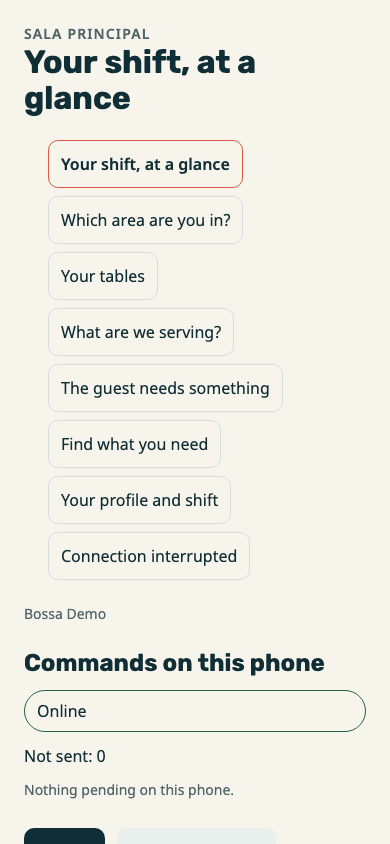
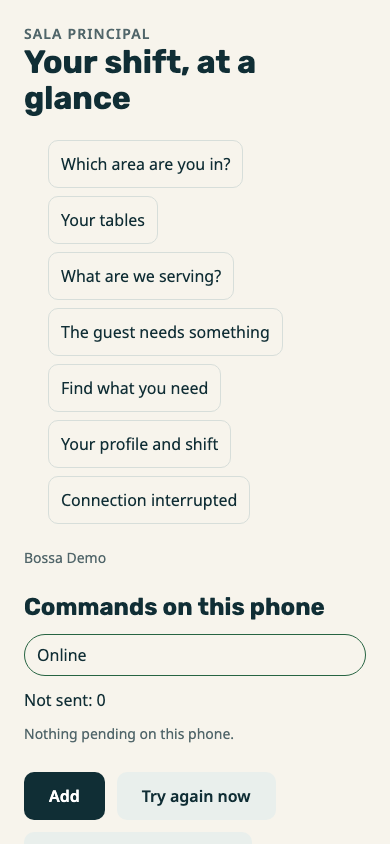
A queixa numero um: o titulo do Staff aparecia duas vezes, e agora aparece uma
Eu tinha corrigido o rotulo ACESSIVEL da barra e deixado o duplicado VISIVEL.
Corrigir o `aria-label` e mostrar o mesmo texto duas vezes no ecra e arrumar o
que nao se ve e deixar o que se ve.

## Escolhi a saida que resolve a classe

Das duas, a barra passa a excluir a seccao cuja rota e a actual. **Uma entrada
que navega para onde ja se esta nao e navegacao** — e a tela principal seguinte
que alguem acrescentar nao repete o defeito, porque a barra deixa de poder
mostrar aquilo onde ja se esta. Dar um rotulo curto proprio ao turno resolvia
esta instancia e deixava a proxima por resolver.

O `aria-current` sai com ela, e e coerente: existia para dizer «a pagina e
esta», e quem o diz e o `h1`.

## Medido no resultado, em tres rotas

  turno   titulo «Tu turno, a la vista»   1 vez, no H1   7 pastilhas
  zonas   titulo «¿En qué zona estás?»    1 vez, no H1   7 pastilhas
  mesas   titulo «Tus mesas»              1 vez, no H1   7 pastilhas

Em cada uma, a pastilha da seccao actual esta ausente e as outras sete la estao.
E olhei para a captura do M04: o titulo aparece uma vez e a primeira pastilha
passou a ser «¿En qué zona estás?».

## E parti um plante meu, na tarefa (5)

`provar-staff-no-navegador.sh` reprovou com «caiu a medicao de toque: ficou VERDE
com o defeito plantado». A ancora do plante era o BLOCO INTEIRO da regra
`.bo-staff .bo-lista a`, e eu tinha-lhe acrescentado `color` e `text-decoration`
— faltavam-lhe, e as ligacoes saiam azuis sublinhadas. O plante deixou de
[…]

diff --git a/apps/web/src/staff/NavegacaoDoStaff.tsx b/apps/web/src/staff/NavegacaoDoStaff.tsx
@@ -80,9 +80,21 @@ export function NavegacaoDoStaff({
   const base = `/${idioma}/staff/${locationId}`;
   return (
     <nav className="bo-seccoes" aria-label={s.seccoes ?? s.turno} data-teste="navegacao">
-      {SECCOES_DO_STAFF.filter((x) => x.principal).map((x) => (
-        <a key={x.rota} href={`${base}${x.rota}`} data-seccao={x.id}
-           aria-current={actual === x.rota ? 'page' : undefined}>
+      {/* ── A secção actual sai da barra ────────────────────────────────────
+          Uma entrada que navega para onde já se está não é navegação. E o custo
+          de a manter não era teórico: o título da página e a primeira pastilha
+          usavam a MESMA cadeia (`staffE15.turno`), e o ecrã dizia «Tu turno, a
+          la vista» duas vezes — foi a primeira queixa do dono do produto.
+
+          Podia ter dado um rótulo curto próprio ao item do turno, e resolvia
+          esta instância. Isto resolve a CLASSE: a tela principal seguinte que
+          alguém acrescentar não repete o defeito, porque a barra deixa de poder
+          mostrar aquilo onde já se está.
+
+          O `aria-current` sai com ela, e é coerente: ele existia para dizer «a
+          página é esta», e quem o diz agora é o `h1`. */}
+      {SECCOES_DO_STAFF.filter((x) => x.principal && x.rota !== actual).map((x) => (
+        <a key={x.rota} href={`${base}${x.rota}`} data-seccao={x.id}>
           {s[x.chave] ?? x.id}
         </a>
       ))}
